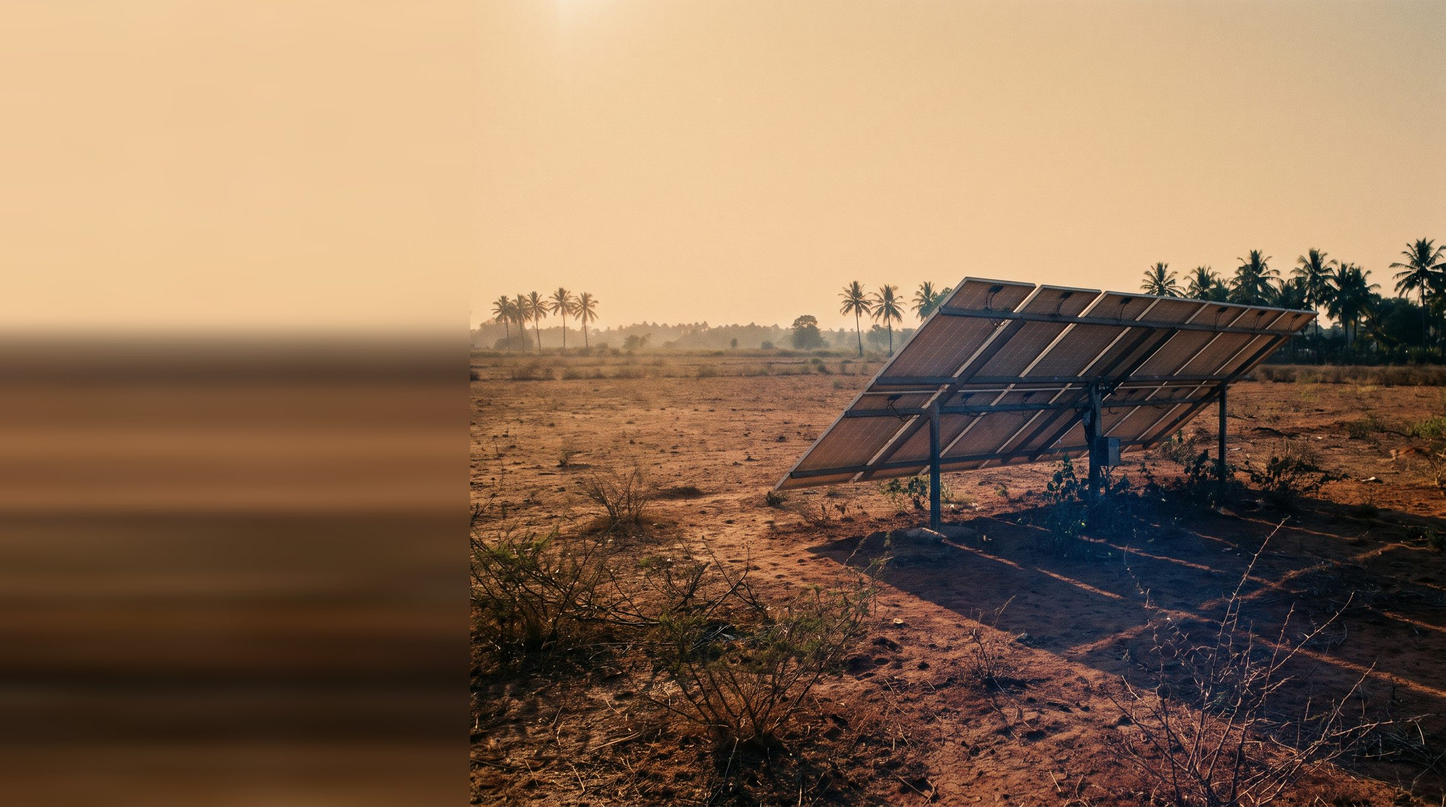
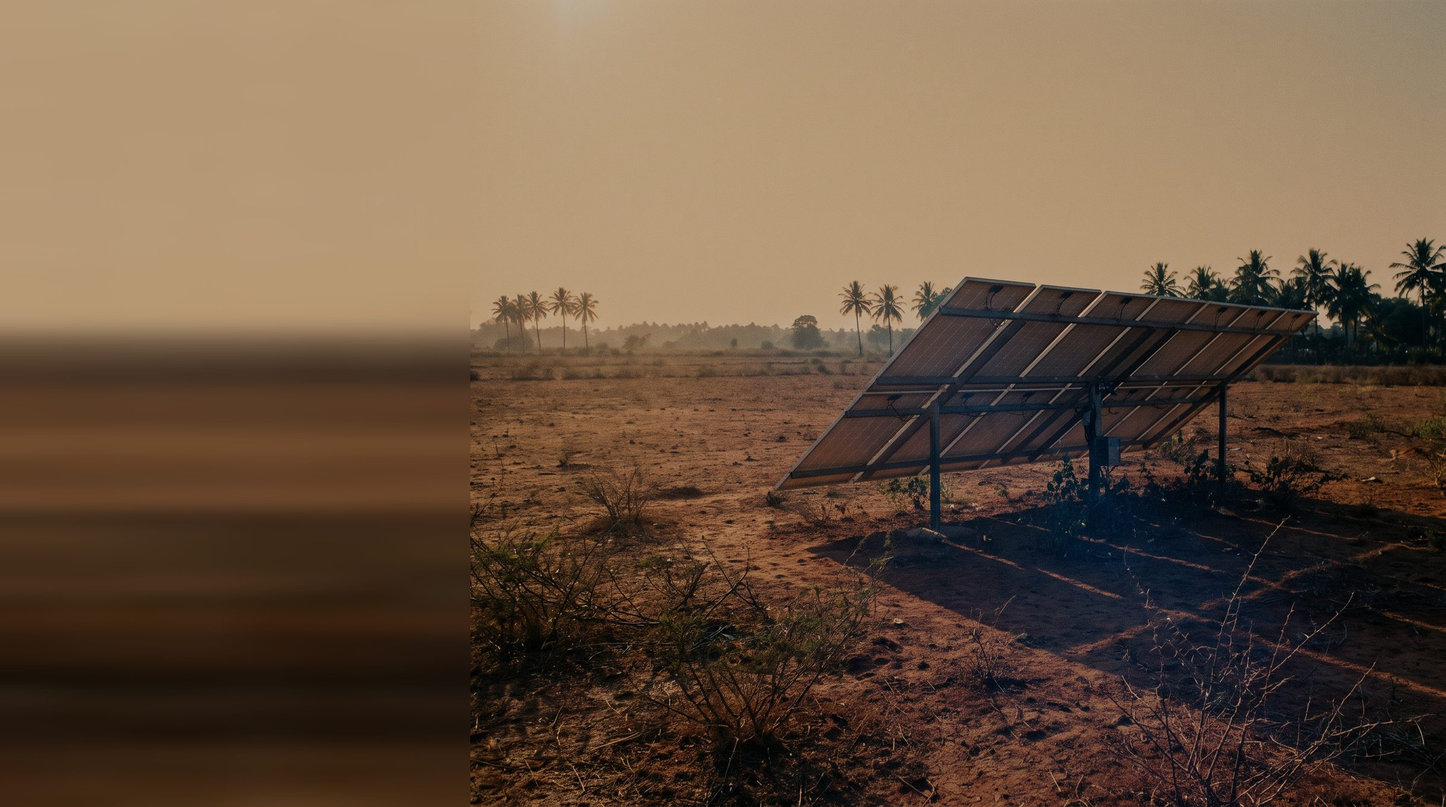
Run the hero artwork behind the figures, drop the ruled band
The figures move inside HeroRotator through a footer slot, so the photograph
and its scrim continue behind them instead of stopping at a ruled strip. The
dividing rules are gone - over a picture they read as a wireframe laid on
top - and spacing separates the figures now.

The taller hero re-crops the artwork: mobile went 684px -> 995px, dropping
the visible slice of a landscape frame from 32% to 22% of its width. That
moved a brighter part of the solar image behind the body copy and took six
glyph runs below AA. Fixed by rebalancing that frame's exposure to 0.76
rather than adding scrim, since solar was a stop brighter than the other two
and more overlay would have darkened all three for one image's problem.

0 failures across 230 glyph runs including all 132 figure runs. Tightest
margin is 1.04x, which is thin - noted in ARCHITECTURE.

diff --git a/src/components/home/Hero.tsx b/src/components/home/Hero.tsx
@@ -11,9 +11,27 @@ import { telLink } from "@/lib/contact";
  *
  * Dark, full-bleed, left-aligned, with the headline given room and nothing
  * competing with it — the NVIDIA move, held to WAGO's restraint. No gradient
- * glows, no floating device mock, no centred text. The figures sit on a ruled
- * strip along the bottom, which is where an industrial site puts its numbers.
+ * glows, no floating device mock, no centred text.
+ *
+ * The figures run along the bottom *inside* the rotator, so the photograph and
+ * its scrim continue behind them. They were a separately ruled band until
+ * 2026-08-12; over a picture those rules read as a wireframe laid on top, so
+ * spacing separates the figures now.
  */
+
+/* 1–40 HP is the range stated in the company's own product portfolio. It
+   previously read 0.5–100, a placeholder written before that document existed.
+
+   TODO(vkon): the 280–440 V band is unverified. It came from a competitor's
+   poster during the first build and has never been confirmed against a Vkon
+   panel. Check it or drop the figure. */
+const FIGURES = [
+  { value: "1–40", unit: "HP", label: "Motor range covered" },
+  { value: "12", unit: "", label: "Protections built in" },
+  { value: "3", unit: "phase", label: "Live amps & voltage" },
+  { value: "280–440", unit: "V", label: "Input supply band" },
+];
+
 export function Hero() {
   return (
     <section className="relative overflow-hidden bg-band">
@@ -21,10 +39,34 @@ export function Hero() {
 
       {/* The rotator owns the layout from here down, because its progress bar
           has to escape Container to reach both page edges. The calls to action
-          are passed in as children so they stay server-rendered — and so they
-          hold still while the message above them changes; a button that moves
-          under the cursor every five seconds is one people misclick. */}
-      <HeroRotator segments={heroSegments}>
+          and the figures are passed in as slots so they stay server-rendered —
+          and so the buttons hold still while the message above them changes; a
+          button that moves under the cursor every five seconds is one people
+          misclick. */}
+      <HeroRotator
+        segments={heroSegments}
+        footer={
+          <Container size="wide">
+            <dl className="grid grid-cols-2 gap-x-8 gap-y-9 pb-14 pt-12 sm:grid-cols-4 sm:pb-16">
+              {FIGURES.map((figure) => (
+                <div key={figure.label}>
+                  <dd className="font-mono text-2xl text-band-ink sm:text-3xl">
+                    {figure.value}
+                    {figure.unit && (
+                      <span className="ml-1 text-base text-band-body">
+                        {figure.unit}
+                      </span>
+                    )}
+                  </dd>
+                  <dt className="label-tech mt-2 text-band-body">
+                    {figure.label}
+                  </dt>
+                </div>
+              ))}
+            </dl>
+          </Container>
+        }
+      >
         <Link
           href="/protection"
           className="link-cta border-band-line text-band-ink hover:border-band-accent hover:text-band-accent"
@@ -39,47 +81,6 @@ export function Hero() {
           Or call {site.phone.display}
         </a>
       </HeroRotator>
-
-      <div className="relative border-t border-band-line">
-        <Container size="wide">
-          {/* 2×2 on mobile, 1×4 on desktop. Dividers are set per item rather
-              than with `divide-x`, which would put a left border on the item
-              that starts the second row on mobile. */}
-          <dl className="grid grid-cols-2 sm:grid-cols-4">
-            {[
-              /* 1–40 HP is the range stated in the company's own product
-                 portfolio. It previously read 0.5–100, which was a placeholder
-                 written before that document existed. */
-              { value: "1–40", unit: "HP", label: "Motor range covered" },
-              { value: "12", unit: "", label: "Protections built in" },
-              { value: "3", unit: "phase", label: "Live amps & voltage" },
-              /* TODO(vkon): unverified. This band came from a competitor's
-                 poster during the first build and has never been confirmed
-                 against a Vkon panel. Check it or remove the stat. */
-              { value: "280–440", unit: "V", label: "Input supply band" },
-            ].map((stat, index) => (
-              <div
-                key={stat.label}
-                className={`border-band-line py-7 sm:border-b-0 sm:py-8 ${
-                  index % 2 === 1 ? "border-l pl-5" : ""
-                } ${index < 2 ? "border-b" : ""} ${
-                  index > 0 ? "sm:border-l sm:pl-6" : ""
-                }`}
-              >
-                <dd className="font-mono text-2xl text-band-ink sm:text-3xl">
-                  {stat.value}
-                  {stat.unit && (
-                    <span className="ml-1 text-base text-band-muted">
-                      {stat.unit}
-                    </span>
-                  )}
-                </dd>
-                <dt className="label-tech mt-2 text-band-muted">{stat.label}</dt>
-              </div>
-            ))}
-          </dl>
-        </Container>
-      </div>
     </section>
   );
 }

diff --git a/src/components/home/HeroRotator.tsx b/src/components/home/HeroRotator.tsx
@@ -56,10 +56,17 @@ const HEADLINE =
 export function HeroRotator({
   segments,
   children,
+  footer,
 }: {
   segments: HeroSegment[];
   /** The call-to-action row, rendered on the server and slotted in below. */
   children?: ReactNode;
+  /**
+   * Rendered below the progress bar and *inside* the artwork's box, so the
+   * photograph and its scrim run behind it rather than stopping above it.
+   * Anything placed here sits on the image, so it must use band tokens.
+   */
+  footer?: ReactNode;
 }) {
   const [index, setIndex] = useState(0);
   const [paused, setPaused] = useState(false);
@@ -251,6 +258,8 @@ export function HeroRotator({
           })}
         </div>
       )}
+
+      {footer && <div className="relative">{footer}</div>}
 
       {/* Announces the change to a screen reader without moving focus. */}
       <p aria-live="polite" className="sr-only">

diff --git a/docs/ARCHITECTURE.md b/docs/ARCHITECTURE.md
@@ -506,6 +506,31 @@ probe `/api/health`.
 Newest first. Add an entry for anything that changes structure, a dependency, or
 a §9 constraint.
 
+### 2026-08-12 — Artwork runs behind the figures
+
+The hero figures (motor range, protections, phases, supply band) used to sit in
+a separately ruled band below the artwork. They now render inside `HeroRotator`
+via a `footer` slot, so the photograph and its scrim continue behind them, and
+the dividing rules are gone — over a picture those rules read as a wireframe
+laid on top, so spacing separates the figures instead.
+
+Two consequences that were not obvious:
+
+- **The taller hero re-crops the artwork.** Mobile went from ~684px to ~995px,
+  which drops the visible slice of a landscape frame from 32 % of its width to
+  22 %. A brighter part of the solar image moved in behind the body copy and
+  took six glyph runs below AA (worst 3.39 against 4.5).
+- **Fixed by rebalancing that one image, not by more overlay.** The solar frame
+  was a stop brighter than the other two across its whole sky; its exposure is
+  now at 0.76. Adding scrim would have darkened all three to solve one image's
+  problem, and the scrim had just been deliberately lightened.
+
+Verified: 0 failures across 230 glyph runs — slides *and* all 132 figure runs —
+both themes, both viewports, all three slides. **Tightest margin is 1.04×
+required**, which is thin: the mobile body copy over the agriculture and solar
+frames is the binding pair, and any further lightening of the scrim or
+brightening of artwork will break it there first.
+
 ### 2026-08-12 — Fonts self-hosted, build no longer needs the network
 
 A local `npm run build` failed with `Failed to fetch 'Inter' from Google Fonts`
